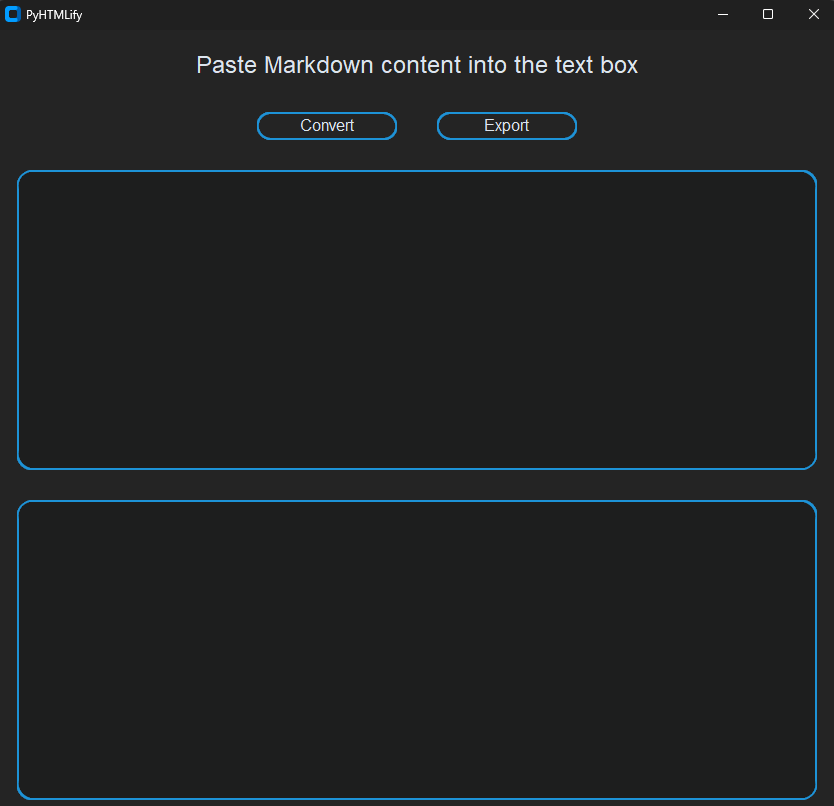
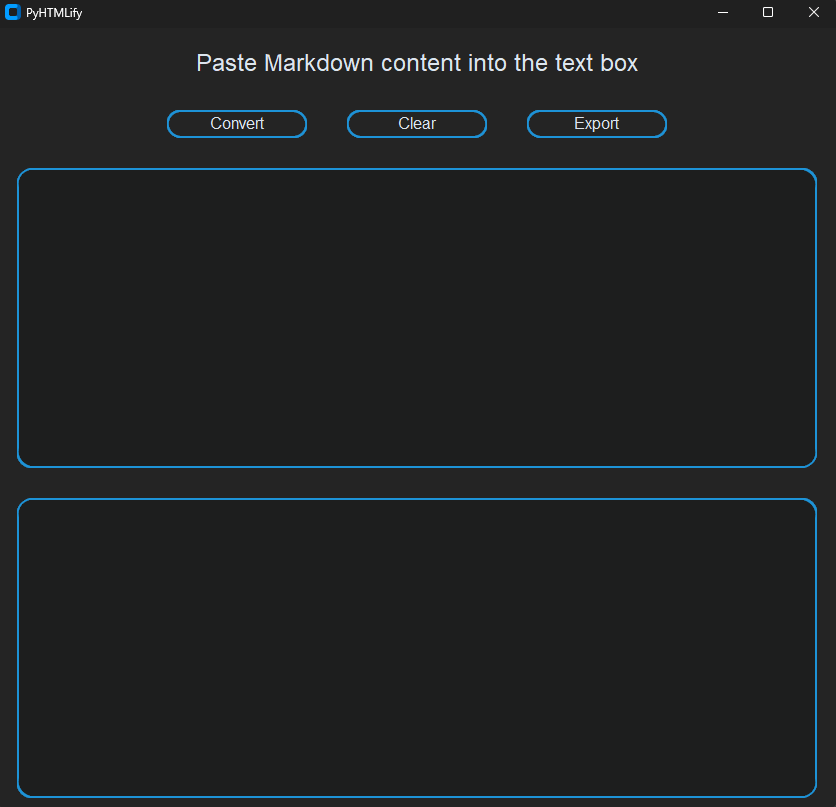
Update Window.png

diff --git a/src/ui.py b/src/ui.py
@@ -6,6 +6,8 @@ from converter import convert_markdown_to_html
 customtkinter.set_appearance_mode("dark")
 customtkinter.set_default_color_theme("blue")
 
+# TODO: Add preview button & function
+
 
 class App(customtkinter.CTk):
     def __init__(self):
@@ -110,7 +112,7 @@ class App(customtkinter.CTk):
             
     def clear_handler(self):
         """
-        This method is called when the "Clear" button is clicked.
+        Clears text boxes' content when the "Clear" button is clicked.
         
         This method is responsible for handling the clearing functionality when the user clicks the "Clear" button.
         It deletes the content of both the input and output text boxes, ensuring they are ready for new input or results.

diff --git a/src/converter.py b/src/converter.py
@@ -6,6 +6,8 @@ import sys
 Conversion Logic
 """
 
+# TODO: Add image support
+
 
 def convert_headings(text):
     """
